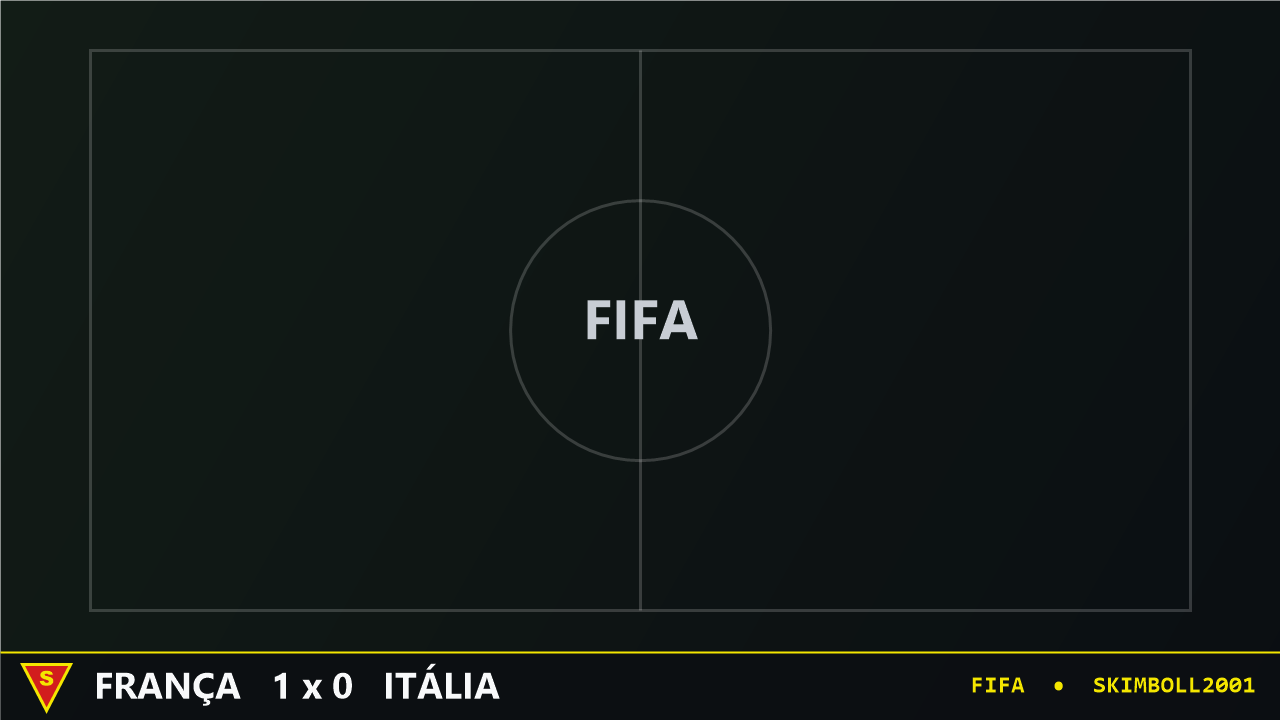
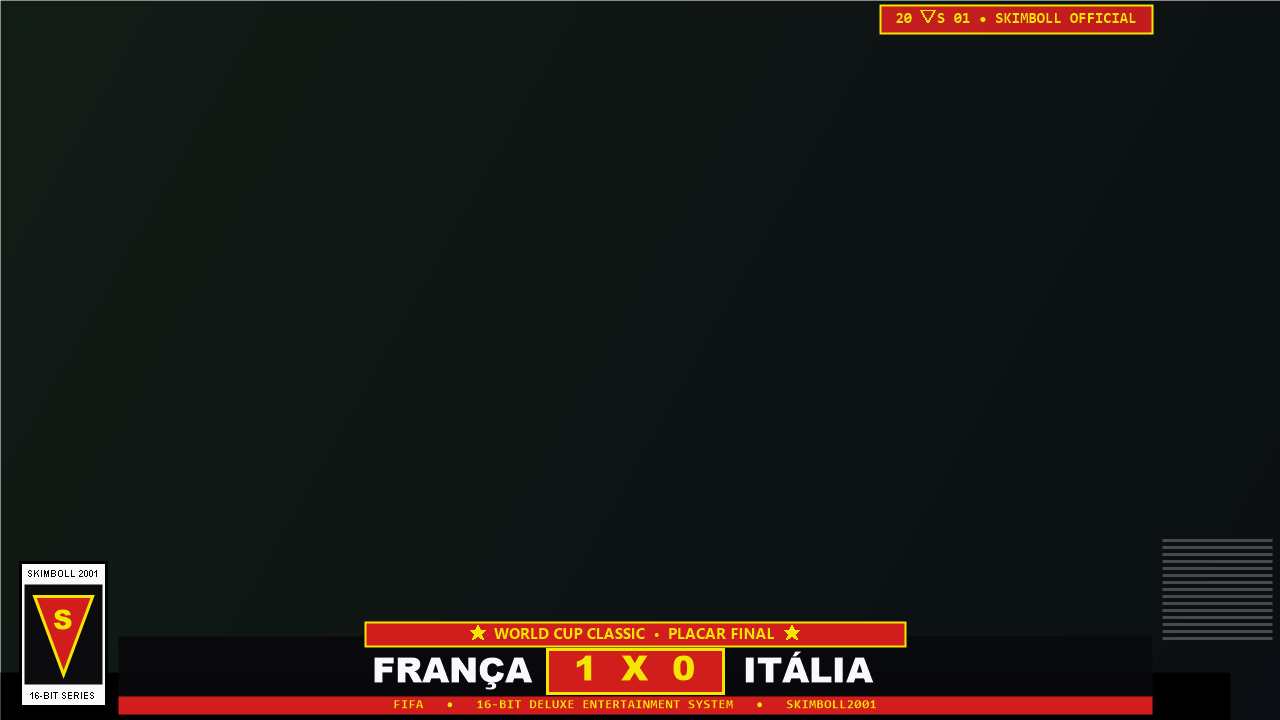
feat(youtube): publica Classico Rio-Nal (Inter-SM 0x2 Gandense) e adiciona thumbnails Box-Art 16-Bit por jogo

diff --git a/.agents/skills/identidade-visual-skimboll/SKILL.md b/.agents/skills/identidade-visual-skimboll/SKILL.md
@@ -24,10 +24,14 @@ description: >-
   - [Gemini_Generated_Image_9ann3e9ann3e9ann.jpeg](file:///c:/Users/marty/skimboll2001/identidade-visual/02-banners-youtube/Gemini_Generated_Image_9ann3e9ann3e9ann.jpeg) (Arte visual completa com jogadores 16-bit + `INTERNATIONAL SKIMBOLL SOCCER DELUXE`, limpa de qualquer selo de terceiros).
   - [banner-youtube-2560x1440.svg](file:///c:/Users/marty/skimboll2001/identidade-visual/02-banners-youtube/banner-youtube-2560x1440.svg) (Versão vetorial sem frases descritivas, focada no visual clássico do jogo).
 
-## 3. Estrutura das Thumbnails (`1280×720` PNG) — Foco no Vídeo e Menos Chamativa
-1. **Tela Cheia (`1280×720`):** A imagem real da partida em campo (`lance_partida.png`) preenche **100% da tela** sem bordas grossas nem barras laterais grandes, deixando o vídeo em total destaque.
-2. **Quadro Discreto do Placar In-Game (`304×224 px` no canto inferior direito):** Exibe o placar final dos últimos segundos da partida (`final_menos_10s.png`) com moldura fina de `2px`, sem cobrir as bandeiras superiores nem o centro do campo.
-3. **Faixa Inferior Minimalista (`68 px` de altura, escura e semi-transparente):**
-   - Esquerda: Watermark `▽S` discreta (`48×46 px`).
-   - Centro-Esquerda: `<TIME 1>   <GOLS 1> x <GOLS 2>   <TIME 2>` em tipografia limpa.
-   - Direita: Nome curto da versão/ROMHACK + `SKIMBOLL2001`.
+## 3. Estrutura das Thumbnails (`1280×720` PNG) — Estilo Box-Art 16-Bit por Jogo
+1. **Moldura e Arte de Capa 16-Bit (`1280×720`):**
+   - Arte ilustrada anos 90 estilo pintura acrílica/guache com jogadores disputando a bola no gramado, torcida com bandeiras temáticas ao fundo, título 3D metálico inclinado sobre faixa vermelha de velocidade e a bola dourada **`DELUXE`** à direita:
+     - **ISSD Charmoso Gauchão 2026-27:** [bg-boxart-charmoso-gauchao.png](file:///c:/Users/marty/skimboll2001/identidade-visual/03-thumbnails-templates/bg-boxart-charmoso-gauchao.png) (Jogadores gaúchos, bandeiras do Rio Grande do Sul na arquibancada e logo 3D `ISSD: CHARMOSO GAUCHÃO 2026-27`).
+     - **Template Universal ISSD / ROMHACKs:** [bg-boxart-issd-universal.png](file:///c:/Users/marty/skimboll2001/identidade-visual/03-thumbnails-templates/bg-boxart-issd-universal.png) (Permite que o `scripts/youtube.ps1` renderize automaticamente o título 3D metálico inclinado de qualquer jogo/ROMHACK sobre a faixa vermelha: *Deutscher Fussball*, *Champions League*, *Mundial de Clubes*, *Campeonato Brasileiro*, *Futebol Brasileiro*, *Ronaldinho Soccer*, *ISSD Extended*, etc.).
+   - Moldura preta clássica de caixa 16-bit no topo, na lateral direita (com coluna de pontos dourados, detalhe roxo e grelha listrada inferior) e na base, com `SKIMBOLL XXL SPORTS SERIES` no topo esquerdo, selo `20 ▽S 01 • SKIMBOLL OFFICIAL` no topo direito e selo vertical `SKIMBOLL 2001 / ▽S / 16-BIT SERIES` no canto inferior esquerdo.
+2. **Quadro In-Game do Placar Final (`200×148 px`):** Exibe a tela real do placar final dos últimos segundos da partida (`final_menos_8s.png`), mostrando os escudos in-game e os autores dos gols, posicionado abaixo da bola `DELUXE`.
+3. **Faixa Inferior com Placar Final em Destaque Absoluto (`636..714 px`):**
+   - Badge superior vermelha/amarela: `★ <NOME DO CLÁSSICO / TORNEIO> • PLACAR FINAL ★`.
+   - Placar gigante centralizado: `<TIME 1>  [ <GOLS 1> X <GOLS 2> ]  <TIME 2>`.
+   - Régua vermelha inferior: `<JOGO / ROMHACK> • 16-BIT DELUXE ENTERTAINMENT SYSTEM • SKIMBOLL2001`.
